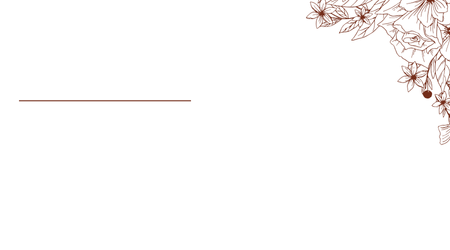
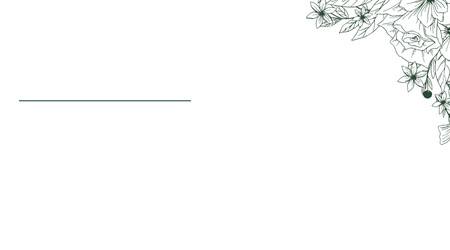
hyun

Changed region(s): [[0.6844, 0.0, 1.0, 0.56], [0.0622, 0.392, 0.4044, 0.42], [0.9644, 0.56, 0.9956, 0.588]]

diff --git a/index.html b/index.html
@@ -413,21 +413,18 @@
                 </div>
             </section>
             <section class="content">
-                <img src="images/content.png" alt="" />
-                <img src="images/content2.png" alt="" />
-                <div class="content-text">
-                    <a
-                        target="_blank"
-                        href="https://jongyoun3128.github.io/promote/cha.html"
-                        data-translate="view_detail"
-                        >자세히보기</a
-                    >
-                </div>
+                <a
+                    target="_blank"
+                    href="https://jongyoun3128.github.io/promote/cha.html"
+                    ><img src="images/page1.png" alt=""
+                /></a>
+                <img src="images/page2.png" alt="" />
+                <img src="images/page3.png" alt="" />
+                <a href="https://jongyoun3128.github.io/promote/"
+                    ><img src="images/page4.png" alt=""
+                /></a>
             </section>
-            <section class="content">
-                <img src="images/price1.jpg" alt="" />
-                <img src="images/price2.jpg" alt="" />
-            </section>
+
             <!-- <div class="qr-section" id="qrSection">
                 <h3>
                     <i class="fas fa-qrcode"></i>

diff --git a/style.css b/style.css
@@ -57,7 +57,7 @@ body {
 .card-back-left {
     width: 65%;
 
-    color: #732d1a;
+    color: #2d4836;
     padding: 30px 25px;
     display: flex;
     flex-direction: column;
@@ -78,7 +78,7 @@ body {
 
 .position {
     font-size: 14px;
-    color: #732d1a;
+    color: #2d4836;
     margin-top: 5px;
 }
 
@@ -100,7 +100,7 @@ body {
     margin-right: 12px;
     flex-shrink: 0;
     opacity: 0.9;
-    background-color: #732d1a;
+    background-color: #2d4836;
     border-radius: 10px;
 }
 
@@ -143,7 +143,7 @@ body {
 
 .tagline {
     font-size: 10px;
-    color: #732d1a;
+    color: #2d4836;
     letter-spacing: 2px;
     text-align: center;
 }
@@ -176,7 +176,7 @@ body {
 }
 
 .btn-save {
-    background: #501f11;
+    background: #2d4836;
     color: white;
 }
 
